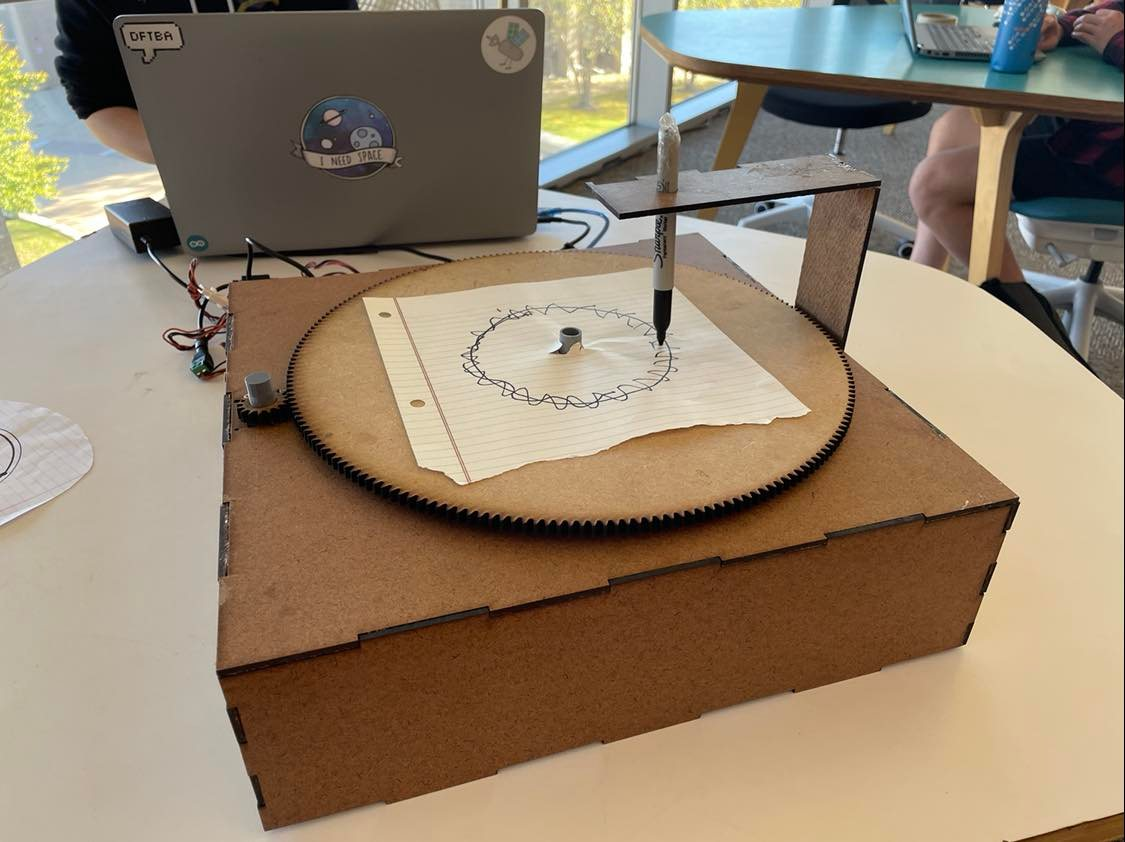
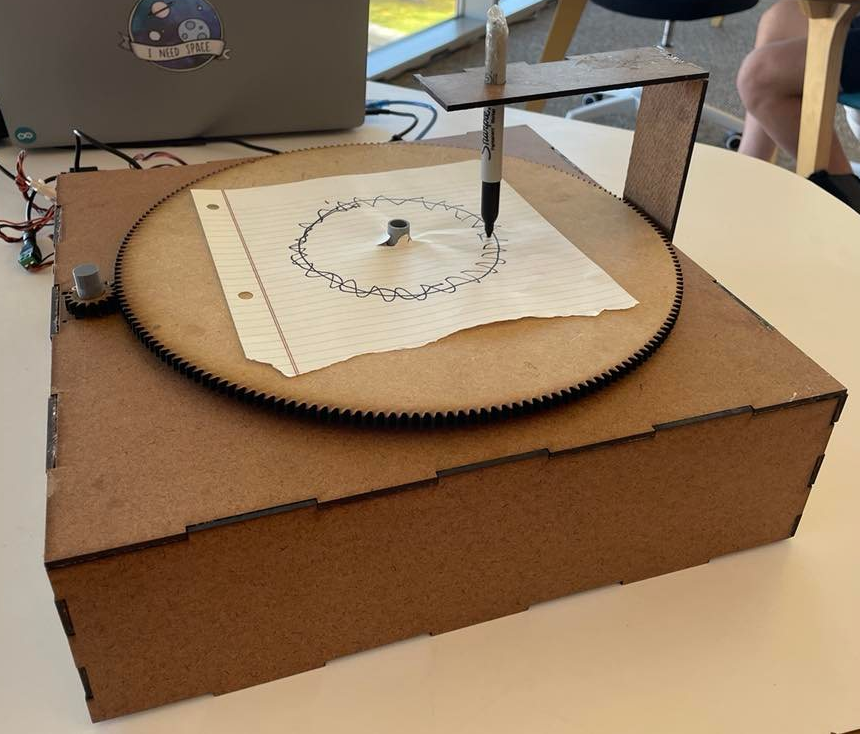
finished up mechanical sections, added firmware

diff --git a/disco-divas/process.html b/disco-divas/process.html
@@ -154,32 +154,23 @@
     <p>
     We created the structure for our first prototype out of ⅛” hardboard and added a structure to hold a pen. 
     </p>
-    <p>
-    Sprint 1 Prototype
-    </p>
+
     <p>
     <figure>
         <img src="images/S1-Image.png" alt="" style="width:52%"/>
-        <img src="images/wooden_disk.jpg" alt="" style="width:29%"/>
-        <figcaption>Figs. Sprint 1 prototype</figcaption>
+        <figcaption>Fig. Sprint 1 prototype</figcaption>
     </figure>
     </p>
 
 
     <p>
-    <strong>Electrical/Firmware:</strong>
+    <strong>Electrical/Firmware Design:</strong>
     </p>
-    <ul>
-    
-    <li>Researched motors
-    
-    <li>Testing
-    
-    <li>Created a circuit for DC motor
-    </li>
-    </ul>
     <p>
-    <strong>Software:</strong>
+        In terms of integrated electronics, the first sprint was pretty simple. I hooked up a spare DC motor to the prototype and ran it at different speeds with serial commands. In the background I was researching stepper motors and motor control for the next sprint.
+    </p>
+    <p>
+    <strong>Software Design:</strong>
     </p>
     <p>
     Going into the first sprint, we had a lot of uncertainty about how difficult the kind of audio analysis we were trying to do would be. This sprint involved a lot of researching and trying out different audio processing libraries. The goal was to start by breaking the song up into different frequencies. The visuals below, called chromagraphs, were generated by using the library Librosa. At the end of the project, we only ended up using Librosa to load the song, which was not strictly necessary (so we didn’t end up using many of the features of the library at the end of the day).
@@ -222,13 +213,11 @@
     </li>
     </ul>
     <p>
-    <strong>Mechanical Design</strong>
+    <strong>Mechanical Design:</strong>
     </p>
+
     <p>
-    <span style="text-decoration:underline;">Lead Screws</span>
-    </p>
-    <p>
-    Developing a mechanism to move the pens back and forth was our main objective for this sprint. After investigating many linear motion mechanisms, we decided to use a lead screw because it would be easy to control, precise, sturdy, and relatively inexpensive. Additionally, COTS lead screws and lead screw nuts seemed reliable and easily purchased, leaving fewer unknowns in our design. 
+        Developing a mechanism to move the pens back and forth was our main mechanical objective for this sprint. After investigating many linear motion mechanisms, we decided to use a lead screw because it would be easy to control, precise, sturdy, and relatively inexpensive. 
     </p>
     <p>
         <figure>
@@ -236,27 +225,14 @@
             <figcaption>Fig. linear pen mechanism</figcaption>
         </figure>
     </p>
+
     <p>
-    <span style="text-decoration:underline;">Vertical Design</span>
+
     </p>
     <p>
-    <ul>Vertical Design</ul>
+        When designing the linear motion mechanism, we hoped to use as few components as we could and make our system as compact as possible. We connected each of our three Nema 17 Stepper Motors directly to the lead screw using a shaft coupler and stacked the three identical mechanisms vertically. This also allowed us to keep the three pens aligned along the radius of the circle. 
     </p>
-    <p>
-    When designing the linear motion mechanism, we hoped to use as few components as we could and make our system as compact as possible. We connected each of our three Nema 17 Stepper Motors directly to the lead screw using a shaft coupler and stacked the three identical mechanisms vertically. This also allowed us to keep the three pens aligned along the radius of the circle.
-    </p>
-    <p>
-    <span style="text-decoration:underline;">End Plate Mounting:</span>
-    </p>
-    <p>
-        To mount the plate holding the ends of the lead screws, we chose to add a bar across the top of the disk. This created a secure attachment, while still allowing space to slide pieces of paper in and out of our machine. Finally, we replace our small motor gear with a COTS part, and recut our disk out of ¼” red acrylic with smaller teeth to mesh with it, helping our disk to spin more smoothly. . 
-    </p>
-    <p>
-    <u>Sprint 2 CAD</u>
-    </p>
-    <p>
-    After considering options where the end plate connected through the center of the disk and box, we decided to create a bar going across the top of the disk secured on either side of the box. Although it isn’t particularly compact, it accomplished both of our objectives. For Sprint 2, we created this bar out of three pieces of ⅛” hardboard and connected the ¼” MDF end plate to it using a custom sheet metal bracket. 
-    </p>
+   
     <p>
         <figure>
             <img src="images/S2-CAD.png" alt="" style="width:50%"/>
@@ -264,23 +240,38 @@
         </figure>
     </p>
     <p>
+        To mount the plate holding the ends of the lead screws, we chose to add a bar across the top of the disk. This created a secure attachment, while still allowing space to slide pieces of paper in and out of our machine. Finally, we replace our small motor gear with a COTS part, and recut our disk out of ¼” red acrylic with smaller teeth to mesh with it, helping our disk to spin more smoothly. 
+
+    </p>
+    
+
+    <p>
         <figure>
-            <img src="images/S2_prototype.jpg" alt=""/>
+            <img src="images/S2_prototype.jpg" alt="" style="width:70%"/>
             <figcaption>Fig. sprint 2 prototype</figcaption>
         </figure>
     </p>
+    
     <p>
-    Sprint 2 video:
+        <strong>Electrical/Firmware Design:</strong>
     </p>
-    <p>
-    <a href="https://drive.google.com/file/d/1ssM6Dv0d9QHcO1LsWVNEJxu5UoXcUVqX/view?resourcekey">https://drive.google.com/file/d/1ssM6Dv0d9QHcO1LsWVNEJxu5UoXcUVqX/view?resourcekey</a> 
-    </p>
+ 
+
+<p>The second sprint is when electronics were really kicked into action. Parts were ordered at the beginning of the sprint and assembled with some basic firmware by the end. </p>
+<p><a href="#"><img src="images/sprint2schematic.png" alt=""></a></p>
+<p>It took some time to figure out how to set up the stepper motor drivers correctly because I couldn&#39;t find any 10 μF capacitors in the Olin stock room and had to order more. It was also quite tricky to set the current limit correctly with a screw driver since I didn&#39;t initially have an alligator clip. These are definitely things I&#39;d suggest confirming you have before staring if you try to recreate something similar. </p>
+<p>Once the motor drivers were wired cleanly I attached one of the motors and tested it with an example script from the default Arduino stepper library. This worked great until I tried running both the DC and stepper motors at the same time. The stepper motor would jump around uncontrollably in both directions. Initially I though our power source didn&#39;t have enough current for both motors but after testing and experimenting for a few hours I attempted controlling each with completely separate circuits and power supplies only to experience the same issue. At this point I realized that the issue was actually the DC motor&#39;s electromagnetic field and that my stepper signal wires needed to be twisted. Twisting all of the wires and adding small capacitors across the circuit eventually fixed this issue.</p>
+<p>Once this was settled, I wrote an Arduino sketch to control the DC and stepper motor over serial and a short python script on the Raspberry Pi to send commands with dummy data. While these short steps always take longer than expected to tune perfectly, by the end of the sprint I had made good progress towards the final MVP, especially in terms of electronics.</p>
+
+   
     <p>
     <strong>Software Design:</strong>
     </p>
     <p>
     The goal with this sprint was to get to an MVP level visual, where the frequencies were split up and represented with their changes over time.
     </p>
+
+
     <p>
     One of the first steps was getting the frequency data over the course of the song. To do this, we ended up using a Fast Fourier transform to separate the frequencies, rather than using an audio processing library, because that ended up being more complicated.
     </p>
@@ -388,6 +379,17 @@
     <p>
     The mechanical design changes in sprint 3 included remaking the pen mounts to make them more sturdy, remaking the box out of ¼” plywood, and and 
     </p>
+
+    <p>
+        <strong>Electrical/Firmware Design:</strong>
+    </p>
+
+    <p>I had the DC motor and one stepper motor working great from the last sprint. Initially I assumed that the code for the rest of the stepper motors would be nearly identical to what I had put together for sprint 2 but what I didn&#39;t realize at the time was that the default Arduino stepper library runs steppers with blocking functions, meaning that the entire program would essentially stop until a stepper motor reached its destination. This was clearly not going to work as we needed to run three steppers at the same time, separately, while also processing serial commands. </p>
+    <p>After research and experimenting with various solutions, I discovered the AccelStepper library, which, although more complicated and less documented than the default library, uses non-blocking functions to control stepper motors. This is explained in more detail on the Firmware Design page. </p>
+    <p>Once I figured out how to use the library, I rewrote the entire Arduino sketch and then did a significant amount of testing to determine parameters such as the stepper motor maximum speed. Once everything was working as expected and mounted on the final structure, I worked with software to determine the relationship between stepper steps and the linear movement of the lead screw and the speed of the disk relative to the speed setting on the DC motor.</p>
+    
+
+
     <p>
     <strong>Software Design</strong>
     </p>
